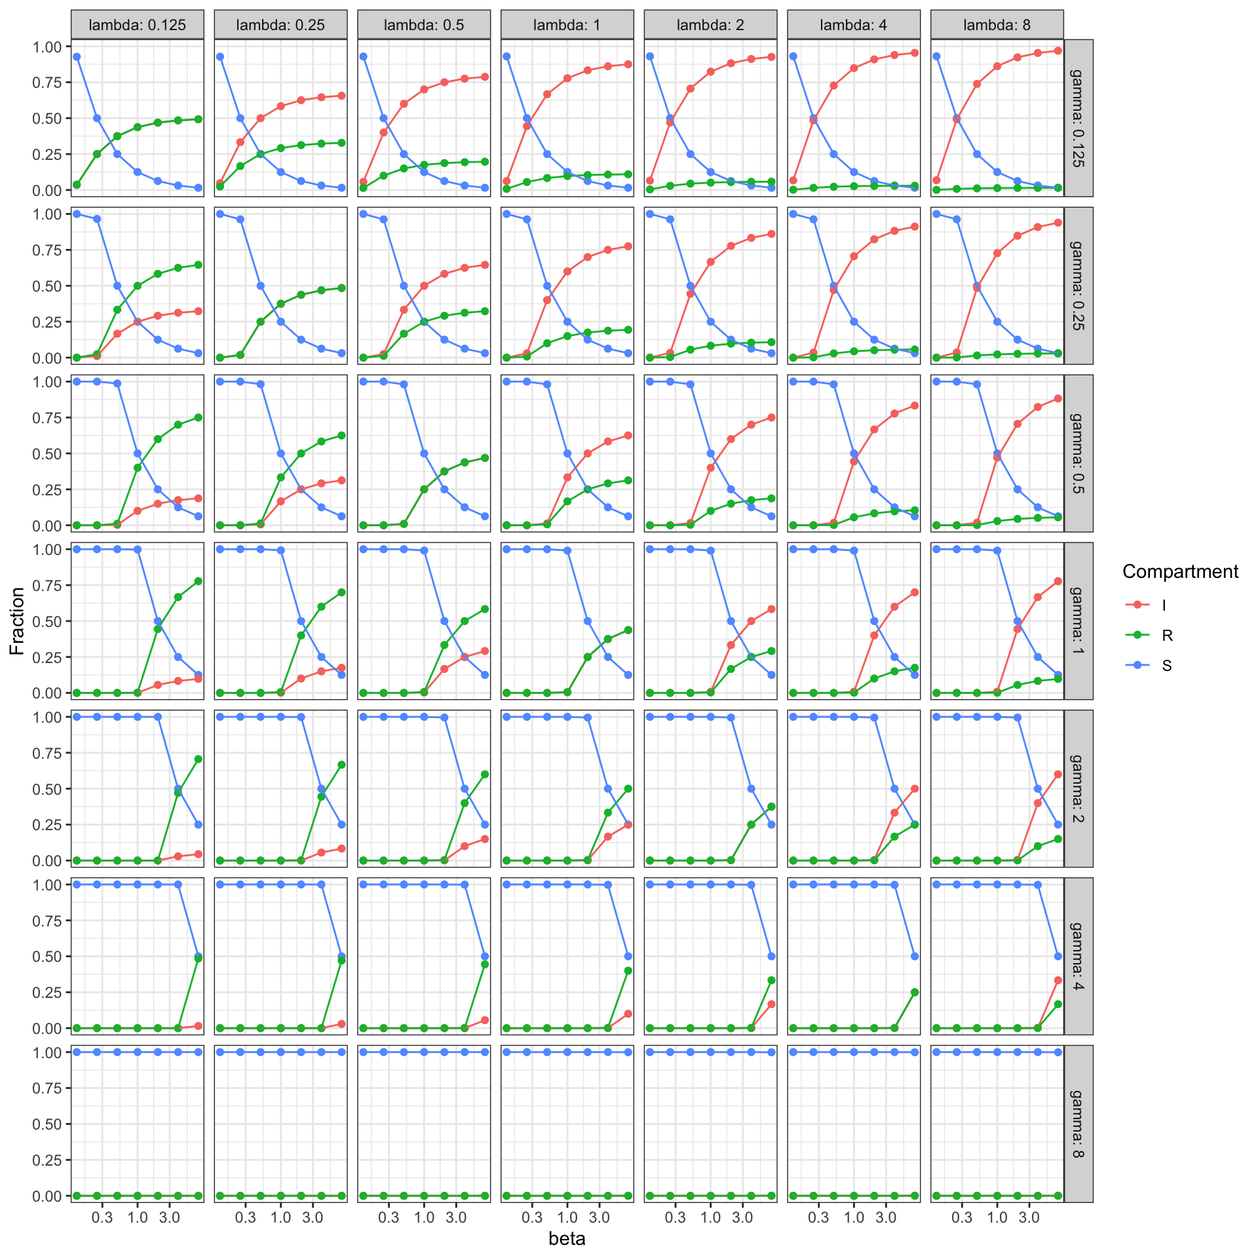
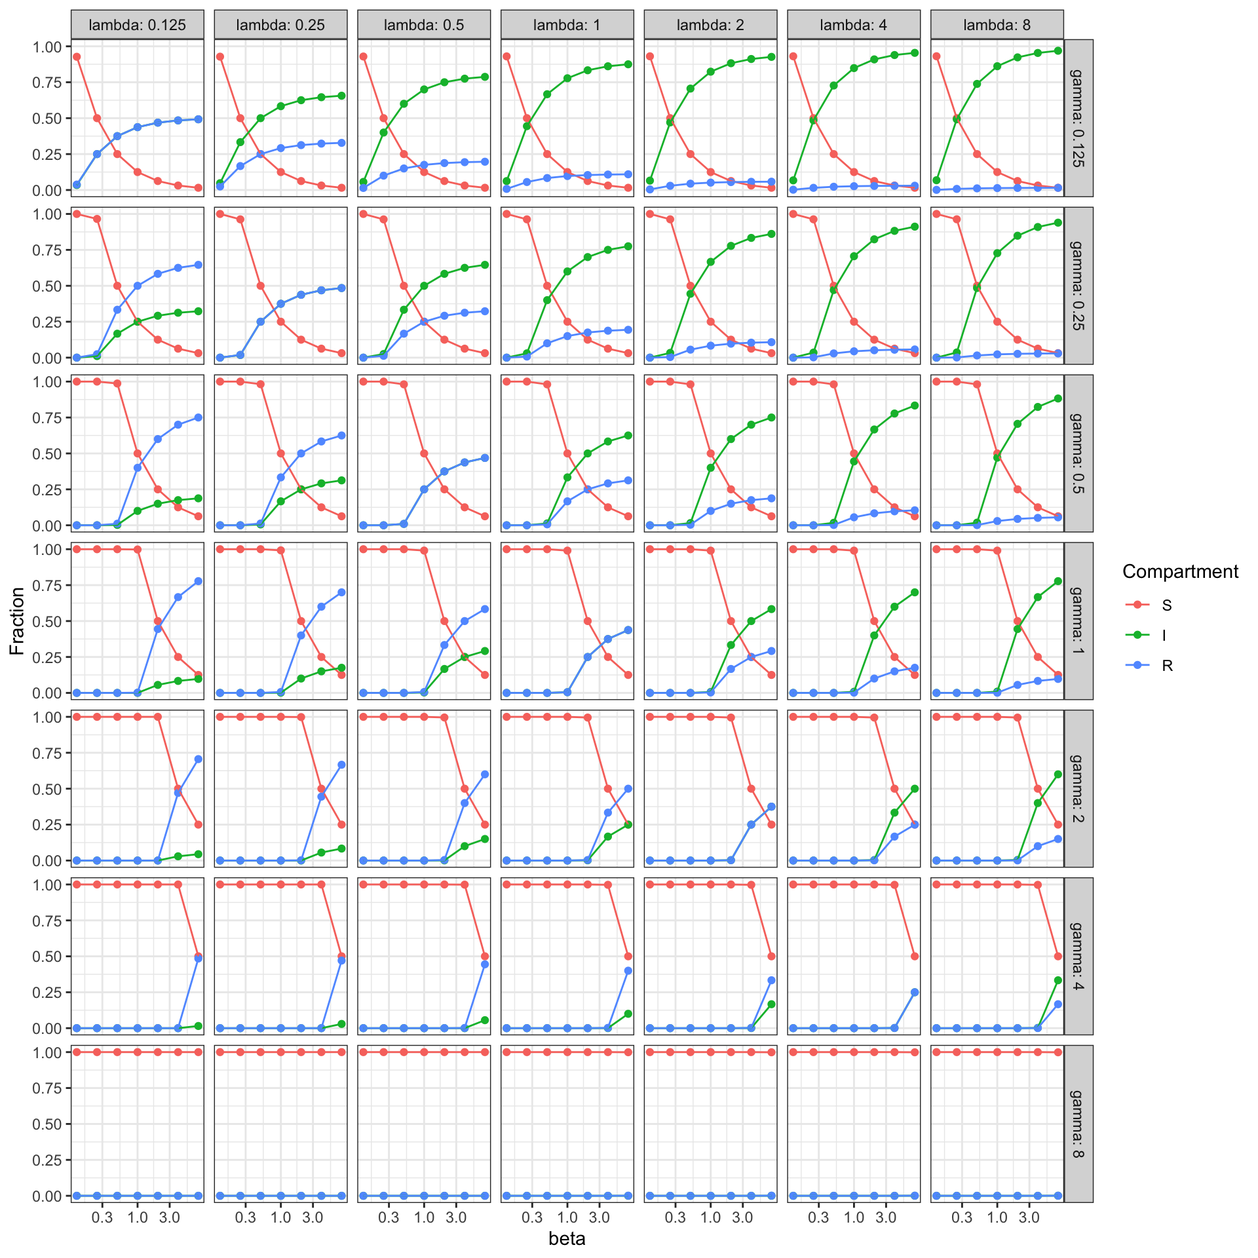
updated posts

diff --git a/docs/posts/2023-01-20-sirs-model-dynamics/index.html b/docs/posts/2023-01-20-sirs-model-dynamics/index.html
@@ -129,7 +129,7 @@ code span.wa { color: #60a0b0; font-weight: bold; font-style: italic; } /* Warni
 <link rel="stylesheet" href="../../styles.css">
 </head>
 
-<body class="nav-fixed fullcontent">
+<body class="nav-fixed">
 
 <div id="quarto-search-results"></div>
   <header id="quarto-header" class="headroom fixed-top">
@@ -192,7 +192,23 @@ code span.wa { color: #60a0b0; font-weight: bold; font-style: italic; } /* Warni
   </header><div id="quarto-content" class="quarto-container page-columns page-rows-contents page-layout-article page-navbar">
 <!-- sidebar -->
 <!-- margin-sidebar -->
-    
+    <div id="quarto-margin-sidebar" class="sidebar margin-sidebar">
+        <nav id="TOC" role="doc-toc" class="toc-active">
+    <h2 id="toc-title">On this page</h2>
+   
+  <ul>
+  <li><a href="#loading-the-required-libraries" id="toc-loading-the-required-libraries" class="nav-link active" data-scroll-target="#loading-the-required-libraries">Loading the required libraries</a></li>
+  <li><a href="#simulate-odes" id="toc-simulate-odes" class="nav-link" data-scroll-target="#simulate-odes">Simulate ODEs</a></li>
+  <li><a href="#analytical-approach" id="toc-analytical-approach" class="nav-link" data-scroll-target="#analytical-approach">Analytical approach</a>
+  <ul class="collapse">
+  <li><a href="#equilibrium-conditions" id="toc-equilibrium-conditions" class="nav-link" data-scroll-target="#equilibrium-conditions">Equilibrium conditions:</a></li>
+  <li><a href="#algebraic-transformation" id="toc-algebraic-transformation" class="nav-link" data-scroll-target="#algebraic-transformation">Algebraic transformation:</a></li>
+  <li><a href="#plugging-in" id="toc-plugging-in" class="nav-link" data-scroll-target="#plugging-in">Plugging in:</a></li>
+  <li><a href="#plots" id="toc-plots" class="nav-link" data-scroll-target="#plots">Plots</a></li>
+  </ul></li>
+  </ul>
+</nav>
+    </div>
 <!-- main -->
 <main class="content quarto-banner-title-block" id="quarto-document-content">
 
@@ -207,6 +223,9 @@ code span.wa { color: #60a0b0; font-weight: bold; font-style: italic; } /* Warni
 <span id="cb1-3"><a href="#cb1-3" aria-hidden="true" tabindex="-1"></a><span class="fu">library</span>(<span class="st">'deSolve'</span>)</span>
 <span id="cb1-4"><a href="#cb1-4" aria-hidden="true" tabindex="-1"></a><span class="fu">theme_set</span>(<span class="fu">theme_bw</span>())</span></code><button title="Copy to Clipboard" class="code-copy-button"><i class="bi"></i></button></pre></div>
 </div>
+</section>
+<section id="simulate-odes" class="level2">
+<h2 class="anchored" data-anchor-id="simulate-odes">Simulate ODEs</h2>
 <div class="cell">
 <div class="sourceCode cell-code" id="cb2"><pre class="sourceCode r code-with-copy"><code class="sourceCode r"><span id="cb2-1"><a href="#cb2-1" aria-hidden="true" tabindex="-1"></a>sir_ode_deterministic <span class="ot">&lt;-</span> <span class="cf">function</span>(t, state, pars) {</span>
 <span id="cb2-2"><a href="#cb2-2" aria-hidden="true" tabindex="-1"></a>  <span class="fu">with</span>(<span class="fu">as.list</span>(<span class="fu">c</span>(state, pars)), {</span>
@@ -254,27 +273,33 @@ code span.wa { color: #60a0b0; font-weight: bold; font-style: italic; } /* Warni
 <span id="cb2-44"><a href="#cb2-44" aria-hidden="true" tabindex="-1"></a>result <span class="ot">&lt;-</span> <span class="fu">pivot_longer</span>(result, <span class="at">cols =</span> <span class="fu">c</span>(<span class="st">'S'</span>, <span class="st">'I'</span>, <span class="st">'R'</span>))</span>
 <span id="cb2-45"><a href="#cb2-45" aria-hidden="true" tabindex="-1"></a></span>
 <span id="cb2-46"><a href="#cb2-46" aria-hidden="true" tabindex="-1"></a>last <span class="ot">&lt;-</span> result[result<span class="sc">$</span>time <span class="sc">==</span> max_time, ]</span>
-<span id="cb2-47"><a href="#cb2-47" aria-hidden="true" tabindex="-1"></a></span>
-<span id="cb2-48"><a href="#cb2-48" aria-hidden="true" tabindex="-1"></a>last <span class="sc">%&gt;%</span></span>
-<span id="cb2-49"><a href="#cb2-49" aria-hidden="true" tabindex="-1"></a>  <span class="fu">ggplot</span>(<span class="fu">aes</span>(beta, value, <span class="at">colour =</span> name)) <span class="sc">+</span> <span class="fu">geom_point</span>() <span class="sc">+</span> <span class="fu">geom_line</span>() <span class="sc">+</span></span>
-<span id="cb2-50"><a href="#cb2-50" aria-hidden="true" tabindex="-1"></a>  <span class="fu">facet_grid</span>(<span class="at">rows =</span> <span class="fu">vars</span>(gamma), <span class="at">cols =</span> <span class="fu">vars</span>(lambda), <span class="at">labeller =</span> label_both) <span class="sc">+</span></span>
-<span id="cb2-51"><a href="#cb2-51" aria-hidden="true" tabindex="-1"></a>  <span class="fu">ylab</span>(<span class="st">'Fraction'</span>) <span class="sc">+</span> <span class="fu">xlab</span>(<span class="st">'beta'</span>) <span class="sc">+</span> <span class="fu">labs</span>(<span class="at">colour =</span> <span class="st">'Compartment'</span>) <span class="sc">+</span></span>
-<span id="cb2-52"><a href="#cb2-52" aria-hidden="true" tabindex="-1"></a>  <span class="fu">scale_x_continuous</span>(<span class="at">trans=</span><span class="st">'log10'</span>)</span></code><button title="Copy to Clipboard" class="code-copy-button"><i class="bi"></i></button></pre></div>
+<span id="cb2-47"><a href="#cb2-47" aria-hidden="true" tabindex="-1"></a>last<span class="sc">$</span>name <span class="ot">&lt;-</span> <span class="fu">factor</span>(last<span class="sc">$</span>name, <span class="at">levels =</span> <span class="fu">c</span>(<span class="st">'S'</span>, <span class="st">'I'</span>, <span class="st">'R'</span>))</span>
+<span id="cb2-48"><a href="#cb2-48" aria-hidden="true" tabindex="-1"></a></span>
+<span id="cb2-49"><a href="#cb2-49" aria-hidden="true" tabindex="-1"></a>last <span class="sc">%&gt;%</span></span>
+<span id="cb2-50"><a href="#cb2-50" aria-hidden="true" tabindex="-1"></a>  <span class="fu">ggplot</span>(<span class="fu">aes</span>(beta, value, <span class="at">colour =</span> name)) <span class="sc">+</span> <span class="fu">geom_point</span>() <span class="sc">+</span> <span class="fu">geom_line</span>() <span class="sc">+</span></span>
+<span id="cb2-51"><a href="#cb2-51" aria-hidden="true" tabindex="-1"></a>  <span class="fu">facet_grid</span>(<span class="at">rows =</span> <span class="fu">vars</span>(gamma), <span class="at">cols =</span> <span class="fu">vars</span>(lambda), <span class="at">labeller =</span> label_both) <span class="sc">+</span></span>
+<span id="cb2-52"><a href="#cb2-52" aria-hidden="true" tabindex="-1"></a>  <span class="fu">ylab</span>(<span class="st">'Fraction'</span>) <span class="sc">+</span> <span class="fu">xlab</span>(<span class="st">'beta'</span>) <span class="sc">+</span> <span class="fu">labs</span>(<span class="at">colour =</span> <span class="st">'Compartment'</span>) <span class="sc">+</span></span>
+<span id="cb2-53"><a href="#cb2-53" aria-hidden="true" tabindex="-1"></a>  <span class="fu">scale_x_continuous</span>(<span class="at">trans=</span><span class="st">'log10'</span>)</span></code><button title="Copy to Clipboard" class="code-copy-button"><i class="bi"></i></button></pre></div>
 <div class="cell-output-display">
 <p><img src="index_files/figure-html/explore_model_dynamics-1.png" class="img-fluid" width="960"></p>
 </div>
 <div class="sourceCode cell-code" id="cb3"><pre class="sourceCode r code-with-copy"><code class="sourceCode r"><span id="cb3-1"><a href="#cb3-1" aria-hidden="true" tabindex="-1"></a>last <span class="sc">%&gt;%</span></span>
 <span id="cb3-2"><a href="#cb3-2" aria-hidden="true" tabindex="-1"></a>  <span class="fu">ggplot</span>(<span class="fu">aes</span>(<span class="at">x =</span> beta, <span class="at">y =</span> value, <span class="at">fill =</span> name)) <span class="sc">+</span> <span class="fu">geom_area</span>() <span class="sc">+</span></span>
 <span id="cb3-3"><a href="#cb3-3" aria-hidden="true" tabindex="-1"></a>  <span class="fu">facet_grid</span>(<span class="at">rows =</span> <span class="fu">vars</span>(gamma), <span class="at">cols =</span> <span class="fu">vars</span>(lambda), <span class="at">labeller =</span> label_both) <span class="sc">+</span></span>
-<span id="cb3-4"><a href="#cb3-4" aria-hidden="true" tabindex="-1"></a>  <span class="fu">ylab</span>(<span class="st">'Fraction'</span>) <span class="sc">+</span> <span class="fu">xlab</span>(<span class="st">'beta'</span>) <span class="sc">+</span> <span class="fu">labs</span>(<span class="at">colour =</span> <span class="st">'Compartment'</span>) <span class="sc">+</span></span>
+<span id="cb3-4"><a href="#cb3-4" aria-hidden="true" tabindex="-1"></a>  <span class="fu">ylab</span>(<span class="st">'Fraction'</span>) <span class="sc">+</span> <span class="fu">xlab</span>(<span class="st">'beta'</span>) <span class="sc">+</span> <span class="fu">labs</span>(<span class="at">fill =</span> <span class="st">'Compartment'</span>) <span class="sc">+</span></span>
 <span id="cb3-5"><a href="#cb3-5" aria-hidden="true" tabindex="-1"></a>  <span class="fu">scale_x_continuous</span>(<span class="at">trans=</span><span class="st">'log10'</span>)</span></code><button title="Copy to Clipboard" class="code-copy-button"><i class="bi"></i></button></pre></div>
 <div class="cell-output-display">
 <p><img src="index_files/figure-html/explore_model_dynamics-2.png" class="img-fluid" width="960"></p>
 </div>
+<div class="sourceCode cell-code" id="cb4"><pre class="sourceCode r code-with-copy"><code class="sourceCode r"><span id="cb4-1"><a href="#cb4-1" aria-hidden="true" tabindex="-1"></a>ss <span class="ot">&lt;-</span> last <span class="sc">%&gt;%</span> <span class="fu">group_by</span>(beta, gamma, lambda) <span class="sc">%&gt;%</span> <span class="fu">summarise</span>(<span class="at">ss =</span> <span class="fu">sum</span>(value))</span></code><button title="Copy to Clipboard" class="code-copy-button"><i class="bi"></i></button></pre></div>
+<div class="cell-output cell-output-stderr">
+<pre><code>`summarise()` has grouped output by 'beta', 'gamma'. You can override using the
+`.groups` argument.</code></pre>
+</div>
 </div>
 </section>
-<section id="analytical" class="level2">
-<h2 class="anchored" data-anchor-id="analytical">Analytical</h2>
+<section id="analytical-approach" class="level2">
+<h2 class="anchored" data-anchor-id="analytical-approach">Analytical approach</h2>
 <p>Solution in terms of parameters in red.</p>
 <section id="equilibrium-conditions" class="level3">
 <h3 class="anchored" data-anchor-id="equilibrium-conditions">Equilibrium conditions:</h3>
@@ -291,24 +316,11 @@ code span.wa { color: #60a0b0; font-weight: bold; font-style: italic; } /* Warni
 <section id="plots" class="level3">
 <h3 class="anchored" data-anchor-id="plots">Plots</h3>
 <div class="cell">
-<div class="sourceCode cell-code" id="cb4"><pre class="sourceCode r code-with-copy"><code class="sourceCode r"><span id="cb4-1"><a href="#cb4-1" aria-hidden="true" tabindex="-1"></a>last_w <span class="ot">&lt;-</span> <span class="fu">pivot_wider</span>(last, <span class="at">names_from =</span> name, <span class="at">values_from =</span> value)</span>
-<span id="cb4-2"><a href="#cb4-2" aria-hidden="true" tabindex="-1"></a>last_w<span class="sc">$</span>S <span class="sc">+</span> last_w<span class="sc">$</span>I <span class="sc">+</span> last_w<span class="sc">$</span>R</span></code><button title="Copy to Clipboard" class="code-copy-button"><i class="bi"></i></button></pre></div>
-<div class="cell-output cell-output-stdout">
-<pre><code>  [1] 1 1 1 1 1 1 1 1 1 1 1 1 1 1 1 1 1 1 1 1 1 1 1 1 1 1 1 1 1 1 1 1 1 1 1 1 1
- [38] 1 1 1 1 1 1 1 1 1 1 1 1 1 1 1 1 1 1 1 1 1 1 1 1 1 1 1 1 1 1 1 1 1 1 1 1 1
- [75] 1 1 1 1 1 1 1 1 1 1 1 1 1 1 1 1 1 1 1 1 1 1 1 1 1 1 1 1 1 1 1 1 1 1 1 1 1
-[112] 1 1 1 1 1 1 1 1 1 1 1 1 1 1 1 1 1 1 1 1 1 1 1 1 1 1 1 1 1 1 1 1 1 1 1 1 1
-[149] 1 1 1 1 1 1 1 1 1 1 1 1 1 1 1 1 1 1 1 1 1 1 1 1 1 1 1 1 1 1 1 1 1 1 1 1 1
-[186] 1 1 1 1 1 1 1 1 1 1 1 1 1 1 1 1 1 1 1 1 1 1 1 1 1 1 1 1 1 1 1 1 1 1 1 1 1
-[223] 1 1 1 1 1 1 1 1 1 1 1 1 1 1 1 1 1 1 1 1 1 1 1 1 1 1 1 1 1 1 1 1 1 1 1 1 1
-[260] 1 1 1 1 1 1 1 1 1 1 1 1 1 1 1 1 1 1 1 1 1 1 1 1 1 1 1 1 1 1 1 1 1 1 1 1 1
-[297] 1 1 1 1 1 1 1 1 1 1 1 1 1 1 1 1 1 1 1 1 1 1 1 1 1 1 1 1 1 1 1 1 1 1 1 1 1
-[334] 1 1 1 1 1 1 1 1 1 1</code></pre>
-</div>
-<div class="sourceCode cell-code" id="cb6"><pre class="sourceCode r code-with-copy"><code class="sourceCode r"><span id="cb6-1"><a href="#cb6-1" aria-hidden="true" tabindex="-1"></a>last_w<span class="sc">$</span>S_calc <span class="ot">&lt;-</span> <span class="fu">pmin</span>(<span class="dv">1</span>, last_w<span class="sc">$</span>gamma <span class="sc">/</span> last_w<span class="sc">$</span>beta)</span>
-<span id="cb6-2"><a href="#cb6-2" aria-hidden="true" tabindex="-1"></a>last_w<span class="sc">$</span>I_calc <span class="ot">&lt;-</span> <span class="fu">pmax</span>(<span class="dv">0</span>, <span class="fu">pmin</span>(<span class="dv">1</span>, <span class="fu">with</span>(last_w, (lambda <span class="sc">*</span> (beta <span class="sc">-</span> gamma))) <span class="sc">/</span> (beta <span class="sc">*</span> (gamma <span class="sc">+</span> lambda))))</span>
-<span id="cb6-3"><a href="#cb6-3" aria-hidden="true" tabindex="-1"></a>last_w<span class="sc">$</span>R_calc <span class="ot">&lt;-</span> <span class="fu">pmax</span>(<span class="dv">0</span>, <span class="fu">pmin</span>(<span class="dv">1</span>, <span class="fu">with</span>(last_w, (gamma <span class="sc">*</span> (beta <span class="sc">-</span> gamma)) <span class="sc">/</span> (beta <span class="sc">*</span> (gamma <span class="sc">+</span> lambda)))))</span>
-<span id="cb6-4"><a href="#cb6-4" aria-hidden="true" tabindex="-1"></a><span class="fu">ggplot</span>(last_w, <span class="fu">aes</span>(S, S_calc)) <span class="sc">+</span> <span class="fu">geom_point</span>()</span></code><button title="Copy to Clipboard" class="code-copy-button"><i class="bi"></i></button></pre></div>
+<div class="sourceCode cell-code" id="cb6"><pre class="sourceCode r code-with-copy"><code class="sourceCode r"><span id="cb6-1"><a href="#cb6-1" aria-hidden="true" tabindex="-1"></a>last_w <span class="ot">&lt;-</span> <span class="fu">pivot_wider</span>(last, <span class="at">names_from =</span> name, <span class="at">values_from =</span> value)</span>
+<span id="cb6-2"><a href="#cb6-2" aria-hidden="true" tabindex="-1"></a>last_w<span class="sc">$</span>S_calc <span class="ot">&lt;-</span> <span class="fu">pmin</span>(<span class="dv">1</span>, last_w<span class="sc">$</span>gamma <span class="sc">/</span> last_w<span class="sc">$</span>beta)</span>
+<span id="cb6-3"><a href="#cb6-3" aria-hidden="true" tabindex="-1"></a>last_w<span class="sc">$</span>I_calc <span class="ot">&lt;-</span> <span class="fu">pmax</span>(<span class="dv">0</span>, <span class="fu">pmin</span>(<span class="dv">1</span>, <span class="fu">with</span>(last_w, (lambda <span class="sc">*</span> (beta <span class="sc">-</span> gamma))) <span class="sc">/</span> (beta <span class="sc">*</span> (gamma <span class="sc">+</span> lambda))))</span>
+<span id="cb6-4"><a href="#cb6-4" aria-hidden="true" tabindex="-1"></a>last_w<span class="sc">$</span>R_calc <span class="ot">&lt;-</span> <span class="fu">pmax</span>(<span class="dv">0</span>, <span class="fu">pmin</span>(<span class="dv">1</span>, <span class="fu">with</span>(last_w, (gamma <span class="sc">*</span> (beta <span class="sc">-</span> gamma)) <span class="sc">/</span> (beta <span class="sc">*</span> (gamma <span class="sc">+</span> lambda)))))</span>
+<span id="cb6-5"><a href="#cb6-5" aria-hidden="true" tabindex="-1"></a><span class="fu">ggplot</span>(last_w, <span class="fu">aes</span>(S, S_calc)) <span class="sc">+</span> <span class="fu">geom_point</span>()</span></code><button title="Copy to Clipboard" class="code-copy-button"><i class="bi"></i></button></pre></div>
 <div class="cell-output-display">
 <p><img src="index_files/figure-html/unnamed-chunk-3-1.png" class="img-fluid" width="672"></p>
 </div>
@@ -484,6 +496,8 @@ window.document.addEventListener("DOMContentLoaded", function (event) {
     }
   }
 });
+</script>
+<script src="https://utteranc.es/client.js" repo="sebastian-gerdes/sbloggel2_comments" issue-term="pathname" theme="github-light" crossorigin="anonymous" async="">
 </script>
 </div> <!-- /content -->
 

diff --git a/docs/posts/2022-02-02-strange-behavior-of-geom_area/index.html b/docs/posts/2022-02-02-strange-behavior-of-geom_area/index.html
@@ -128,7 +128,7 @@ code span.wa { color: #60a0b0; font-weight: bold; font-style: italic; } /* Warni
 <link rel="stylesheet" href="../../styles.css">
 </head>
 
-<body class="nav-fixed fullcontent">
+<body class="nav-fixed">
 
 <div id="quarto-search-results"></div>
   <header id="quarto-header" class="headroom fixed-top">
@@ -160,43 +160,43 @@ code span.wa { color: #60a0b0; font-weight: bold; font-style: italic; } /* Warni
     </nav>
 </header>
 <!-- content -->
-<header id="title-block-header" class="quarto-title-block default page-columns page-full">
-  <div class="quarto-title-banner page-columns page-full">
-    <div class="quarto-title column-body">
-      <h1 class="title">Strange behavior in ggplot2</h1>
-                      </div>
-  </div>
-    
-  
-  <div class="quarto-title-meta">
-
-      <div>
-      <div class="quarto-title-meta-heading">Author</div>
-      <div class="quarto-title-meta-contents">
-               <p>Sebastian Gerdes </p>
-            </div>
-    </div>
-      
-      <div>
-      <div class="quarto-title-meta-heading">Published</div>
-      <div class="quarto-title-meta-contents">
-        <p class="date">February 2, 2023</p>
-      </div>
-    </div>
-    
-      
-    </div>
-    
-  
-  </header><div id="quarto-content" class="quarto-container page-columns page-rows-contents page-layout-article page-navbar">
+<div id="quarto-content" class="quarto-container page-columns page-rows-contents page-layout-article page-navbar">
 <!-- sidebar -->
 <!-- margin-sidebar -->
-    
+    <div id="quarto-margin-sidebar" class="sidebar margin-sidebar">
+        
+    </div>
 <!-- main -->
-<main class="content quarto-banner-title-block" id="quarto-document-content">
+<main class="content" id="quarto-document-content">
+
+<header id="title-block-header" class="quarto-title-block default">
+<div class="quarto-title">
+<h1 class="title">Strange behavior in ggplot2</h1>
+</div>
 
 
 
+<div class="quarto-title-meta">
+
+    <div>
+    <div class="quarto-title-meta-heading">Author</div>
+    <div class="quarto-title-meta-contents">
+             <p>Sebastian Gerdes </p>
+          </div>
+  </div>
+    
+    <div>
+    <div class="quarto-title-meta-heading">Published</div>
+    <div class="quarto-title-meta-contents">
+      <p class="date">February 2, 2023</p>
+    </div>
+  </div>
+  
+    
+  </div>
+  
+
+</header>
 
 <div class="cell">
 <div class="sourceCode cell-code" id="cb1"><pre class="sourceCode r code-with-copy"><code class="sourceCode r"><span id="cb1-1"><a href="#cb1-1" aria-hidden="true" tabindex="-1"></a><span class="fu">library</span>(<span class="st">'tidyr'</span>)</span>
@@ -475,6 +475,8 @@ window.document.addEventListener("DOMContentLoaded", function (event) {
     }
   }
 });
+</script>
+<script src="https://utteranc.es/client.js" repo="sebastian-gerdes/sbloggel2_comments" issue-term="pathname" theme="github-light" crossorigin="anonymous" async="">
 </script>
 </div> <!-- /content -->
 

diff --git a/docs/posts/2022-10-25-simulate-time-to-event-data/index.html b/docs/posts/2022-10-25-simulate-time-to-event-data/index.html
@@ -129,7 +129,7 @@ code span.wa { color: #60a0b0; font-weight: bold; font-style: italic; } /* Warni
 <link rel="stylesheet" href="../../styles.css">
 </head>
 
-<body class="nav-fixed fullcontent">
+<body class="nav-fixed">
 
 <div id="quarto-search-results"></div>
   <header id="quarto-header" class="headroom fixed-top">
@@ -192,7 +192,19 @@ code span.wa { color: #60a0b0; font-weight: bold; font-style: italic; } /* Warni
   </header><div id="quarto-content" class="quarto-container page-columns page-rows-contents page-layout-article page-navbar">
 <!-- sidebar -->
 <!-- margin-sidebar -->
-    
+    <div id="quarto-margin-sidebar" class="sidebar margin-sidebar">
+        <nav id="TOC" role="doc-toc" class="toc-active">
+    <h2 id="toc-title">On this page</h2>
+   
+  <ul>
+  <li><a href="#intro" id="toc-intro" class="nav-link active" data-scroll-target="#intro">Intro</a></li>
+  <li><a href="#mathematical-aspects" id="toc-mathematical-aspects" class="nav-link" data-scroll-target="#mathematical-aspects">Mathematical aspects</a></li>
+  <li><a href="#ad-hoc-code-to-draw-from-survival-time-distribution" id="toc-ad-hoc-code-to-draw-from-survival-time-distribution" class="nav-link" data-scroll-target="#ad-hoc-code-to-draw-from-survival-time-distribution">Ad hoc code to draw from survival time distribution</a></li>
+  <li><a href="#more-sophisticated-solution-using-the-coxed-package" id="toc-more-sophisticated-solution-using-the-coxed-package" class="nav-link" data-scroll-target="#more-sophisticated-solution-using-the-coxed-package">More sophisticated solution using the coxed package</a></li>
+  <li><a href="#conclusion" id="toc-conclusion" class="nav-link" data-scroll-target="#conclusion">Conclusion</a></li>
+  </ul>
+</nav>
+    </div>
 <!-- main -->
 <main class="content quarto-banner-title-block" id="quarto-document-content">
 
@@ -480,6 +492,8 @@ window.document.addEventListener("DOMContentLoaded", function (event) {
     }
   }
 });
+</script>
+<script src="https://utteranc.es/client.js" repo="sebastian-gerdes/sbloggel2_comments" issue-term="pathname" theme="github-light" crossorigin="anonymous" async="">
 </script>
 </div> <!-- /content -->
 

diff --git a/docs/index.html b/docs/index.html
@@ -159,7 +159,7 @@ ul.task-list li input[type="checkbox"] {
 
 <div class="quarto-listing quarto-listing-container-default" id="listing-listing">
 <div class="list quarto-listing-default">
-<div class="quarto-post image-right" data-index="0" data-listing-date-sort="1675292400000" data-listing-file-modified-sort="1675338487177" data-listing-reading-time-sort="6.48">
+<div class="quarto-post image-right" data-index="0" data-listing-date-sort="1675292400000" data-listing-file-modified-sort="1675339863978" data-listing-reading-time-sort="6.51">
 <div class="body">
 <a href="./posts/2022-02-02-strange-behavior-of-geom_area/index.html">
 <h3 class="no-anchor listing-title">
@@ -184,7 +184,7 @@ Sebastian Gerdes
 </a>
 </div>
 </div>
-<div class="quarto-post image-right" data-index="1" data-listing-date-sort="1674082800000" data-listing-file-modified-sort="1675337765854" data-listing-reading-time-sort="3.685">
+<div class="quarto-post image-right" data-index="1" data-listing-date-sort="1674082800000" data-listing-file-modified-sort="1675340120193" data-listing-reading-time-sort="3.27">
 <div class="body">
 <a href="./posts/2023-01-20-sirs-model-dynamics/index.html">
 <h3 class="no-anchor listing-title">

diff --git a/docs/posts/2022-12-20-flowcharts/index.html b/docs/posts/2022-12-20-flowcharts/index.html
@@ -128,7 +128,7 @@ code span.wa { color: #60a0b0; font-weight: bold; font-style: italic; } /* Warni
 <link rel="stylesheet" href="../../styles.css">
 </head>
 
-<body class="nav-fixed fullcontent">
+<body class="nav-fixed">
 
 <div id="quarto-search-results"></div>
   <header id="quarto-header" class="headroom fixed-top">
@@ -191,7 +191,9 @@ code span.wa { color: #60a0b0; font-weight: bold; font-style: italic; } /* Warni
   </header><div id="quarto-content" class="quarto-container page-columns page-rows-contents page-layout-article page-navbar">
 <!-- sidebar -->
 <!-- margin-sidebar -->
-    
+    <div id="quarto-margin-sidebar" class="sidebar margin-sidebar">
+        
+    </div>
 <!-- main -->
 <main class="content quarto-banner-title-block" id="quarto-document-content">
 
@@ -404,6 +406,8 @@ window.document.addEventListener("DOMContentLoaded", function (event) {
     }
   }
 });
+</script>
+<script src="https://utteranc.es/client.js" repo="sebastian-gerdes/sbloggel2_comments" issue-term="pathname" theme="github-light" crossorigin="anonymous" async="">
 </script>
 </div> <!-- /content -->
 
